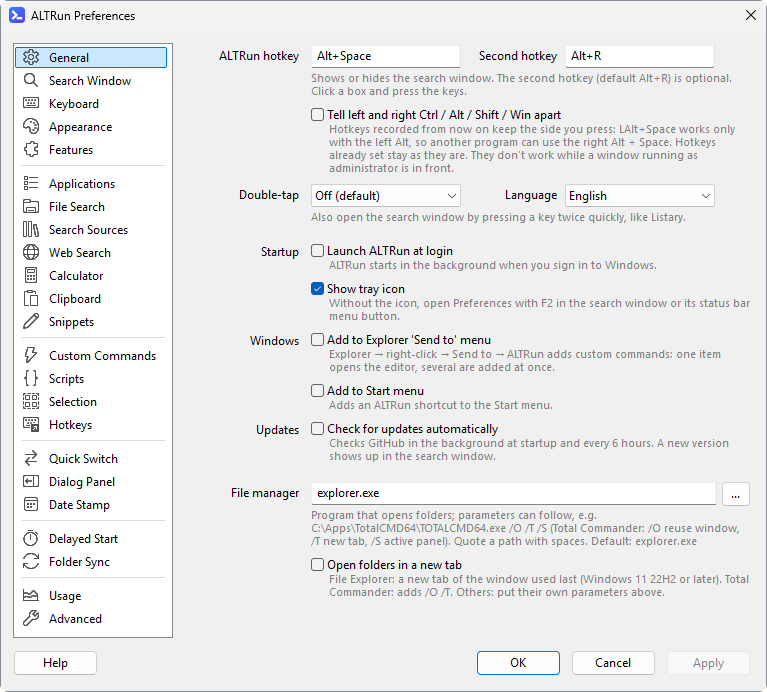
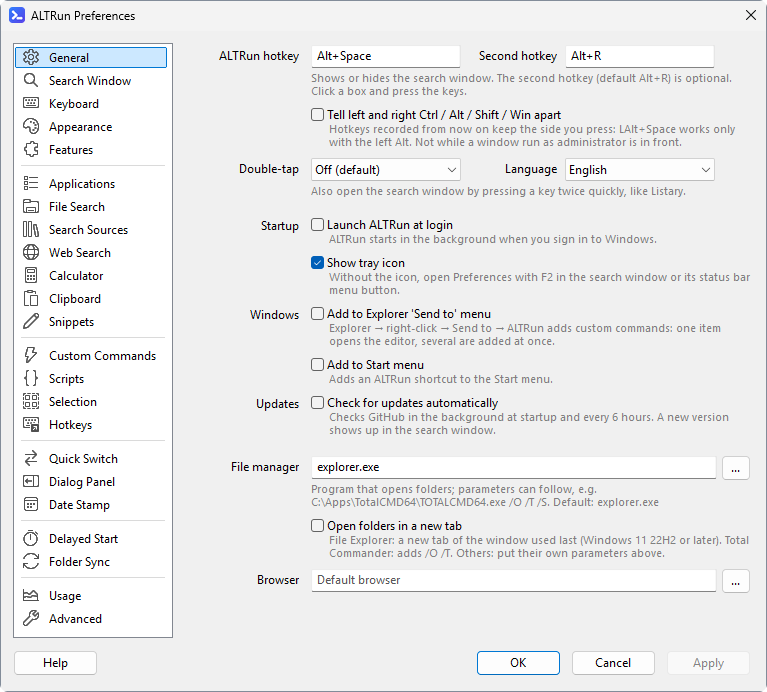
Open Web Pages in a Chosen Browser (Test Build 2026.11.13.5) (#506)
Preferences -> General -> Browser: a program (with parameters) that opens
http / https addresses instead of the default browser; empty keeps the
default browser, a missing program falls back to it (logged). Web page
results show that browser's icon. FileManager and Browser share
SplitCommand / ProgramPath; update and PT Tools help links go through
OpenUrl too. The General page fits: the Browser box shows "Default
browser" in gray when empty; shorter descriptions for left / right
hotkeys and the file manager.

Refs #505

diff --git a/docs/wiki/Configuration.md b/docs/wiki/Configuration.md
@@ -71,6 +71,7 @@ Preferences → General (`SelectionHotkey` is on the "Selection" page).
 | ShowTrayIcon | 1 | Show the tray icon |
 | FileManager | `explorer.exe` | Program that opens folders, optionally with parameters, for example `C:\Apps\TotalCMD64\TOTALCMD64.exe /O /T /S` (Total Commander: `/O` reuse the open window, `/T` new tab, `/S` active panel); quote a path with spaces. Environment variables work, e.g. `%OneDrive%\Apps\TotalCMD64\TOTALCMD64.exe /O /T /S`; when the program isn't found, File Explorer opens the folder (noted in the log) |
 | FolderNewTab | `0` | 1 = open folders in a new tab (Preferences → General → "Open folders in a new tab"). File Explorer: a new tab of the Explorer window used last (the one in front before ALTRun was shown, else the frontmost one on the current virtual desktop), with the file selected for "Reveal"; Windows 11 22H2 or later, and a new window as before when no Explorer window is open, a network folder doesn't answer within 0.5 s (a server that is offline), or it doesn't work. Total Commander: `/O /T` are added when the parameters don't have them. Other file managers: use their own parameters in FileManager |
+| Browser | empty | Program that opens web pages (bookmarks, browser history, web searches, web address commands, links in selected text, help pages), optionally with parameters, for example `"C:\Apps\Vivaldi\vivaldi.exe" --new-window`; quote a path with spaces. Environment variables work. Empty = your default browser; when the program isn't found, the default browser opens the page (noted in the log). Only `http` / `https` addresses use it: other links (`mailto:`, `ms-settings:`...) open in the program Windows has for them. Web page results show this browser's icon |
 | SendToMenu | 1 | Add to Explorer's "Send to" menu |
 | StartMenuShortcut | 1 | Add to the Start menu |
 | CheckForUpdates | 1 | Check GitHub for new versions in the background at startup and every 6 hours after; a new version is shown in the search window, see [One-key updates](Installation#one-key-updates) |

diff --git a/docs/wiki/Configuration-zh.md b/docs/wiki/Configuration-zh.md
@@ -71,6 +71,7 @@
 | ShowTrayIcon | 1 | 显示托盘图标 |
 | FileManager | `explorer.exe` | 打开文件夹用的程序, 后面可以带参数, 例如 `C:\Apps\TotalCMD64\TOTALCMD64.exe /O /T /S` (Total Commander: `/O` 用已打开的窗口, `/T` 新标签页, `/S` 当前面板); 路径有空格时加引号。可以用环境变量, 例如 `%OneDrive%\Apps\TotalCMD64\TOTALCMD64.exe /O /T /S`; 找不到这个程序时用资源管理器打开文件夹 (记在日志里) |
 | FolderNewTab | `0` | 1 = 在新标签页中打开文件夹 (偏好设置 → 通用 → "在新标签页中打开文件夹")。资源管理器: 在最近用过的资源管理器窗口 (显示 ALTRun 之前在前台的那个, 没有就用当前虚拟桌面上最前面的那个) 里开新标签页, "在文件管理器中显示" 时选中那个文件; 要 Windows 11 22H2 及以上, 没有打开的资源管理器窗口、网络文件夹 0.5 秒内没有响应 (服务器离线) 或者不成功时, 和以前一样新开窗口。Total Commander: 参数里没有 `/O /T` 时自动加上。其他文件管理器: 在 FileManager 里填它自己的参数 |
+| Browser | 空 | 打开网页 (书签、浏览器历史记录、网页搜索、网址类的自定义命令、选中文字里的链接、帮助页面) 用的程序, 后面可以带参数, 例如 `"C:\Apps\Vivaldi\vivaldi.exe" --new-window`; 路径有空格时加引号。可以用环境变量。留空 = 默认浏览器; 找不到这个程序时用默认浏览器打开 (记在日志里)。只有 `http` / `https` 网址用它, 其他链接 (`mailto:`、`ms-settings:` 等) 交给 Windows 登记的程序。网页结果显示这个浏览器的图标 |
 | SendToMenu | 1 | 添加到资源管理器的 "发送到" 菜单 |
 | StartMenuShortcut | 1 | 添加到开始菜单 |
 | CheckForUpdates | 1 | 启动时和之后每 6 小时在后台检查一次 GitHub 上的新版本, 有新版本时显示在搜索窗口里, 见 [一键更新](Installation-zh#一键更新) |

diff --git a/docs/wiki/Privacy.md b/docs/wiki/Privacy.md
@@ -7,7 +7,7 @@ ALTRun collects and uploads nothing: no statistics, telemetry or ads. Searches, 
 ## When ALTRun goes online
 ALTRun itself only goes online to check for updates and install one you choose, to download exchange rates when currency conversion is turned on (off by default), and to download a web search's icon when you click "Download Site Icon". When each happens, where to, and how to turn it off: [Security policy → Network connections](https://github.com/zhugecaomao/ALTRun/blob/main/SECURITY.md#network-connections) (the one list, kept with the privacy policy).
 
-Apart from that, web searches, bookmarks, web address commands and help links are handed to your default browser; ALTRun itself does not contact those sites. Talking to Everything and Total Commander happens locally (Windows messages), not over the network.
+Apart from that, web searches, bookmarks, web address commands and help links are handed to your browser (the default one, or the one in Preferences → General → Browser); ALTRun itself does not contact those sites. Talking to Everything and Total Commander happens locally (Windows messages), not over the network.
 
 ## What is stored on your PC
 Everything lives in the Data folder and a few local folders; what each file is, whether it can be deleted and how to back it up is in [Data files](Data-Files). Points related to privacy:

diff --git a/docs/wiki/Bookmarks.md b/docs/wiki/Bookmarks.md
@@ -17,7 +17,7 @@ ALTRun reads bookmarks at startup, then checks their files in the background eve
 ## Browser history
 
 - Type `h keyword` to search the browser history: pages whose title or URL contains every word you type, most recently visited first. Chinese titles can also be found by their pinyin initials. `h ` alone (with the space) lists the most recently visited pages; `h` alone shows a hint.
-- Press `Enter` to open the page in your default browser; press `Alt+Enter` to copy its URL.
+- Press `Enter` to open the page in your browser (the default one, or Preferences → General → Browser); press `Alt+Enter` to copy its URL.
 - Only with the keyword: your history never shows up in normal search results.
 - Same browsers as bookmarks: Chrome, Edge, Brave and Vivaldi, all profiles (the most recent 10,000 pages of each); Firefox is not supported yet.
 - ALTRun reads each profile's `History` database only when you type `h `, and again when you come back to it more than a minute later; nothing is read at startup or in the background. It reads the file in place without locking it, through SQLite that comes with Windows 10 / 11 (`winsqlite3.dll`), so the browser can stay open. ALTRun keeps no copy of your history and sends nothing anywhere; a page you open from the results is remembered like any other result (learned ranking, recent items).

diff --git a/CHANGELOG.md b/CHANGELOG.md
@@ -5,6 +5,15 @@
 
 ## [未发布]
 
+## [2026.11.13.5]
+
+测试版。
+
+Test build.
+
+### 新增
+- 偏好设置 → 通用 → "浏览器": 用指定的浏览器打开网页 (书签、浏览器历史记录、网页搜索、网址类的自定义命令、选中文字里的链接、帮助页面), 不用把它设为默认浏览器; 后面可以带参数 (例如 `"C:\Apps\Vivaldi\vivaldi.exe" --new-window`), 留空用默认浏览器; 网页结果显示这个浏览器的图标 (#505)
+
 ## [2026.11.13.4]
 
 测试版。
@@ -1447,7 +1456,8 @@ Smoother typing, easier to get started, and a few useful new features.
 ## 更早的版本
 见 [GitHub Releases](https://github.com/zhugecaomao/ALTRun/releases)。
 
-[未发布]: https://github.com/zhugecaomao/ALTRun/compare/2026.11.13.4...HEAD
+[未发布]: https://github.com/zhugecaomao/ALTRun/compare/2026.11.13.5...HEAD
+[2026.11.13.5]: https://github.com/zhugecaomao/ALTRun/compare/2026.11.13.4...2026.11.13.5
 [2026.11.13.4]: https://github.com/zhugecaomao/ALTRun/compare/2026.11.13.3...2026.11.13.4
 [2026.11.13.3]: https://github.com/zhugecaomao/ALTRun/compare/2026.11.13.2...2026.11.13.3
 [2026.11.13.2]: https://github.com/zhugecaomao/ALTRun/compare/2026.11.13.1...2026.11.13.2

diff --git a/docs/wiki/Web-Search-zh.md b/docs/wiki/Web-Search-zh.md
@@ -2,7 +2,7 @@
 
 # 网页搜索
 
-输入 "关键字 搜索词" 用对应的网站搜索, 例如 `g autohotkey hotkeys` 用 Google 搜索, `Enter` 在默认浏览器里打开。
+输入 "关键字 搜索词" 用对应的网站搜索, 例如 `g autohotkey hotkeys` 用 Google 搜索, `Enter` 在浏览器里打开 (默认浏览器, 或偏好设置 → 通用 → 浏览器)。
 
 ![网页搜索: g autohotkey v2 hotkeys](https://raw.githubusercontent.com/zhugecaomao/ALTRun/main/docs/images/screenshots/websearch.png)
 

diff --git a/docs/wiki/Web-Search.md b/docs/wiki/Web-Search.md
@@ -2,7 +2,7 @@
 
 # Web search
 
-Type "keyword search terms" to search a website, for example `g autohotkey hotkeys` searches Google; `Enter` opens it in your default browser.
+Type "keyword search terms" to search a website, for example `g autohotkey hotkeys` searches Google; `Enter` opens it in your browser (the default one, or Preferences → General → Browser).
 
 ![Web search: g autohotkey v2 hotkeys](https://raw.githubusercontent.com/zhugecaomao/ALTRun/main/docs/images/screenshots/websearch.png)
 
